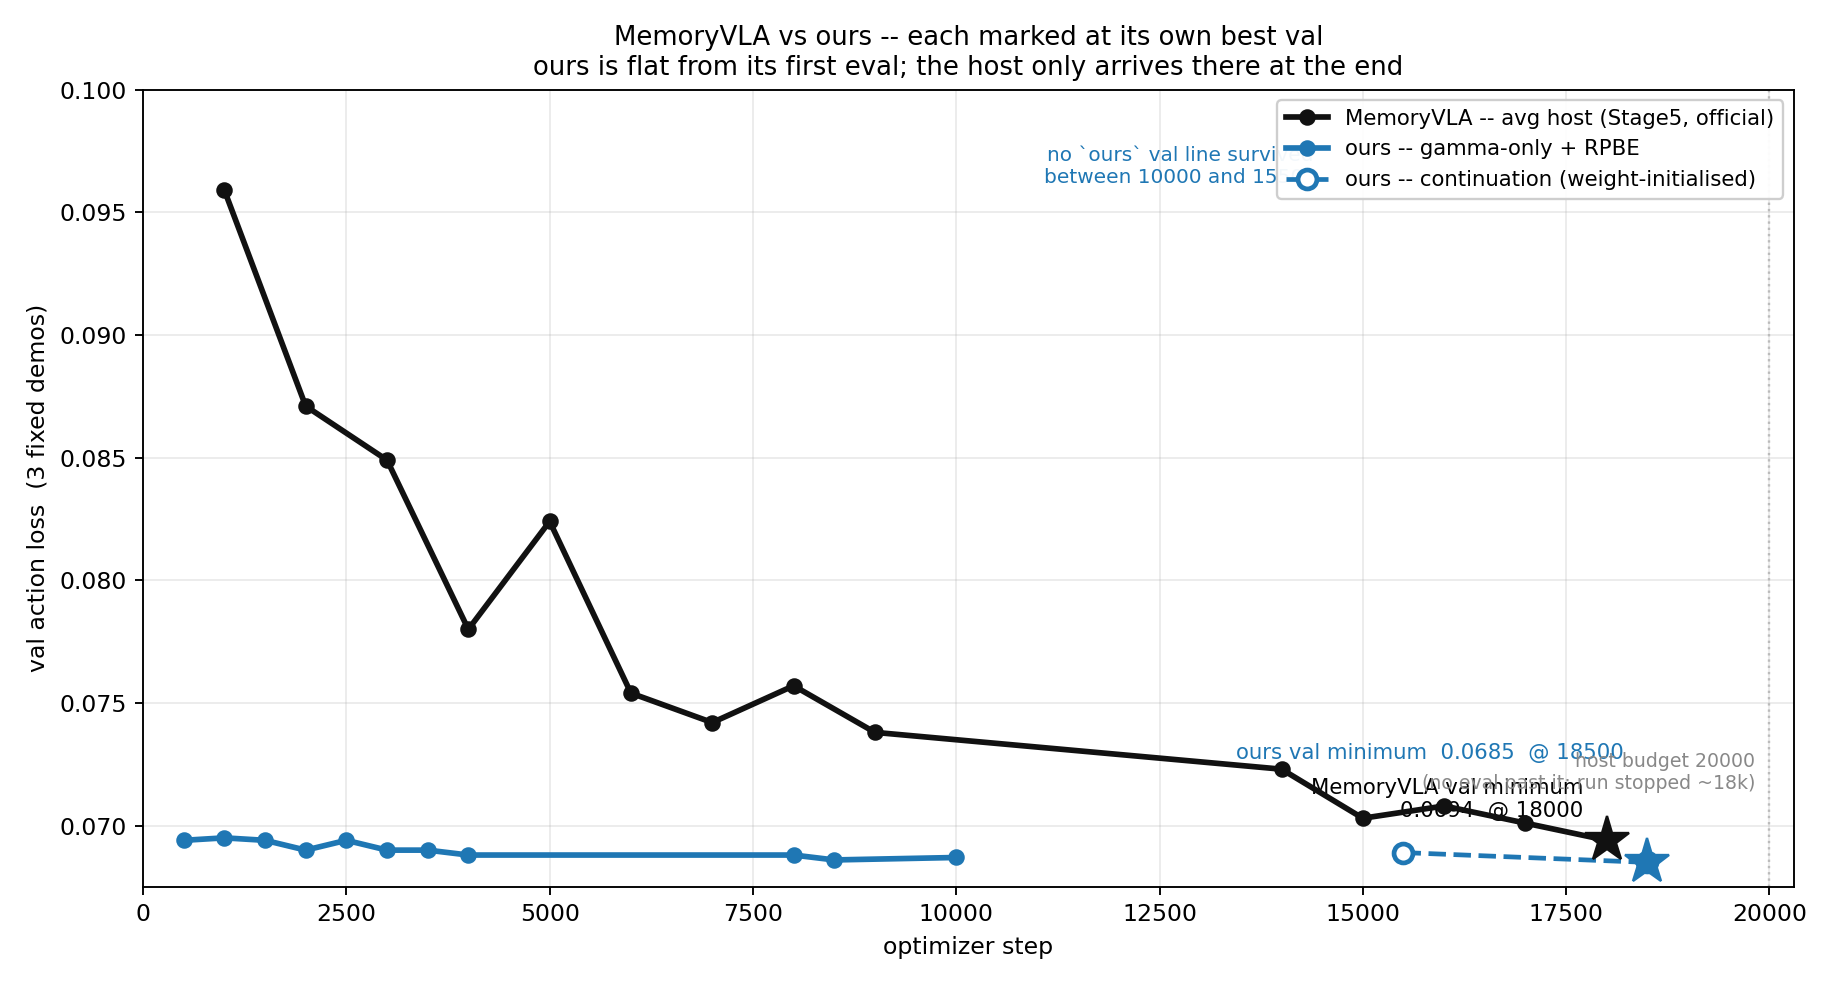
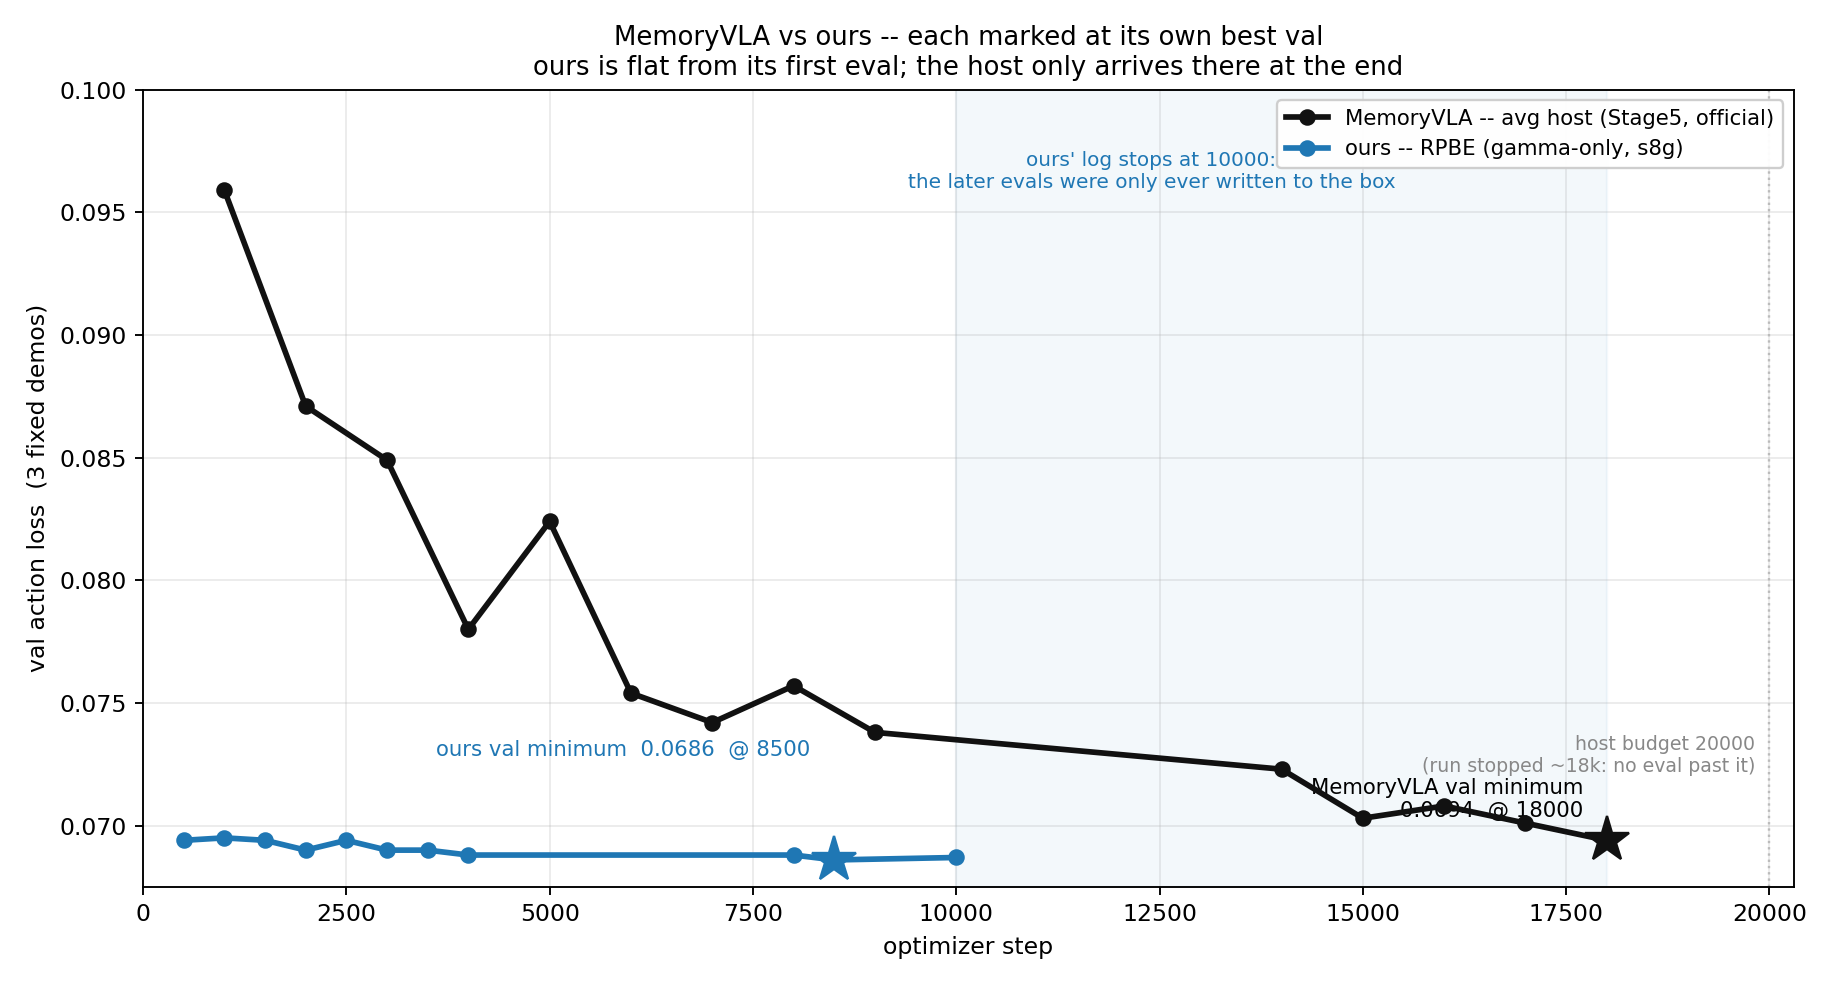
[results] MemoryVLA vs ours: drop the continuation, plot the RPBE run itself
Blue line is now only the run that actually trained with RPBE (s8g,
500-10000), so its val minimum is 0.0686 @ 8500 rather than the
continuation's 0.0685 @ 18500.  Black stays the MemoryVLA avg host
(1000-18000, minimum 0.0694 @ 18000).  Data export updated to match.

diff --git a/results/plot_curves.py b/results/plot_curves.py
@@ -332,45 +332,40 @@ def plot_alignment(path):
 def plot_memoryvla_vs_ours(runs, path):
     """MemoryVLA (avg host) vs ours only, each marked at its val minimum.
 
-    Two lines, no control arms: black = MemoryVLA (the official avg host),
-    blue = ours.  The x axis runs to 20000 because that was the host's budget;
-    the DATA stops earlier than that on both sides and the line is simply not
-    drawn past the last recovered point.
+    Two lines, no control arms and no continuation: black = MemoryVLA (the
+    official avg host), blue = ours (the RPBE run itself, `s8g`).  The x axis
+    runs to the host's 20000 budget; the DATA stops earlier on both sides and
+    the line is simply not drawn past the last recovered point.
     """
     fig, ax = plt.subplots(figsize=(10.8, 5.8))
     a = runs["avg_s42_stage5_official"]
     o = runs["ours_gamma-only_ours_s8g(proposal-space)"]
-    # the continuation's steps are LOCAL to s8h; it started from the 15000
-    # endpoint, so shift them onto the absolute axis
-    c = [(15000 + s, v)
-         for s, v in runs["ours_gamma-only_ours_s8h(continuation)"]]
 
     ax.plot([p[0] for p in a], [p[1] for p in a], "-o", color="#111111",
             lw=2.4, ms=6, zorder=4,
             label="MemoryVLA -- avg host (Stage5, official)")
     ax.plot([p[0] for p in o], [p[1] for p in o], "-o", color="#1f77b4",
-            lw=2.4, ms=6, zorder=4, label="ours -- gamma-only + RPBE")
-    ax.plot([p[0] for p in c], [p[1] for p in c], "--o", color="#1f77b4",
-            lw=2.0, ms=8, mfc="white", mew=2.0, zorder=4,
-            label="ours -- continuation (weight-initialised)")
+            lw=2.4, ms=6, zorder=4, label="ours -- RPBE (gamma-only, s8g)")
 
-    # each curve's own val minimum
+    # each curve's own val minimum, among the RECOVERED points
     ax.plot([18000], [0.0694], "*", color="#111111", ms=20, zorder=6)
     ax.annotate("MemoryVLA val minimum\n0.0694  @ 18000",
                 (18000, 0.0694), xytext=(-10, 10), textcoords="offset points",
                 fontsize=9, ha="right")
-    ax.plot([18500], [0.0685], "*", color="#1f77b4", ms=20, zorder=6)
-    ax.annotate("ours val minimum  0.0685  @ 18500",
-                (18500, 0.0685), xytext=(-10, 44), textcoords="offset points",
+    ax.plot([8500], [0.0686], "*", color="#1f77b4", ms=20, zorder=6)
+    ax.annotate("ours val minimum  0.0686  @ 8500",
+                (8500, 0.0686), xytext=(-10, 44), textcoords="offset points",
                 fontsize=9, color="#1f77b4", ha="right")
 
     # where the data actually stops on each side
     ax.axvline(20000, color="#bbbbbb", lw=1.0, ls=":")
-    ax.annotate("host budget 20000\n(no eval past it: run stopped ~18k)",
-                (20000, 0.0715), xytext=(-6, 0), textcoords="offset points",
+    ax.annotate("host budget 20000\n(run stopped ~18k: no eval past it)",
+                (20000, 0.0722), xytext=(-6, 0), textcoords="offset points",
                 fontsize=8, color="#888888", ha="right")
-    ax.annotate("no `ours` val line survived\nbetween 10000 and 15500",
-                (12750, 0.0962), fontsize=8.5, color="#1f77b4", ha="center")
+    ax.axvspan(10000, 18000, color="#1f77b4", alpha=0.05, zorder=0)
+    ax.annotate("ours' log stops at 10000:\n"
+                "the later evals were only ever written to the box",
+                (12400, 0.0960), fontsize=8.5, color="#1f77b4", ha="center")
 
     ax.set_xlabel("optimizer step")
     ax.set_ylabel("val action loss  (3 fixed demos)")
